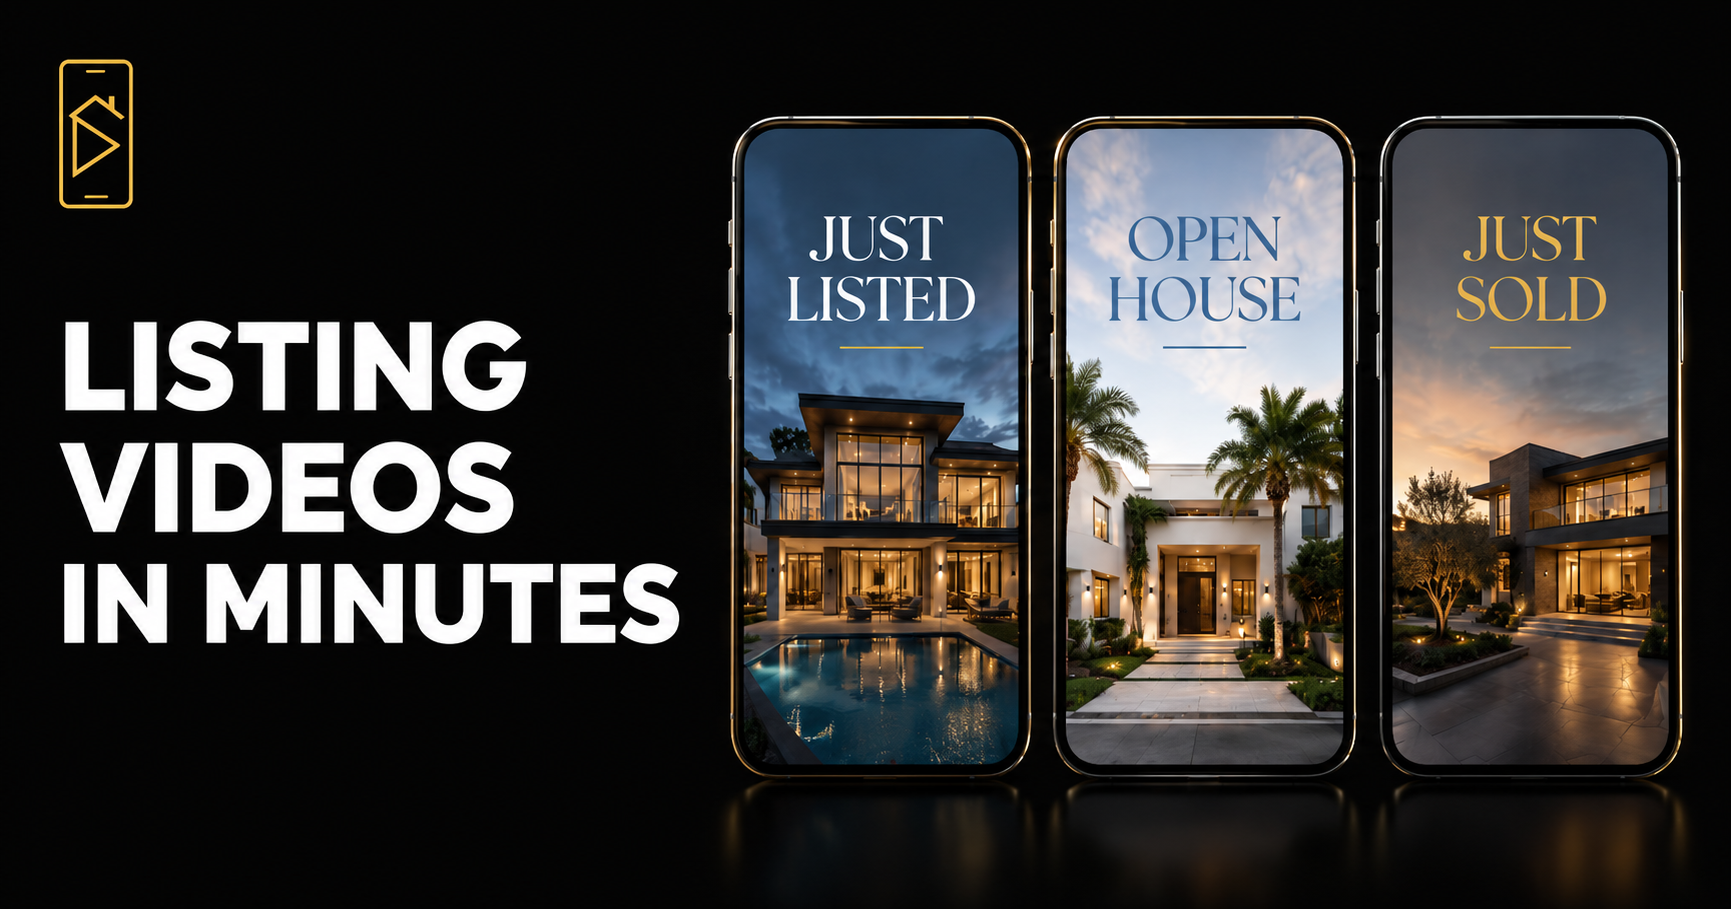
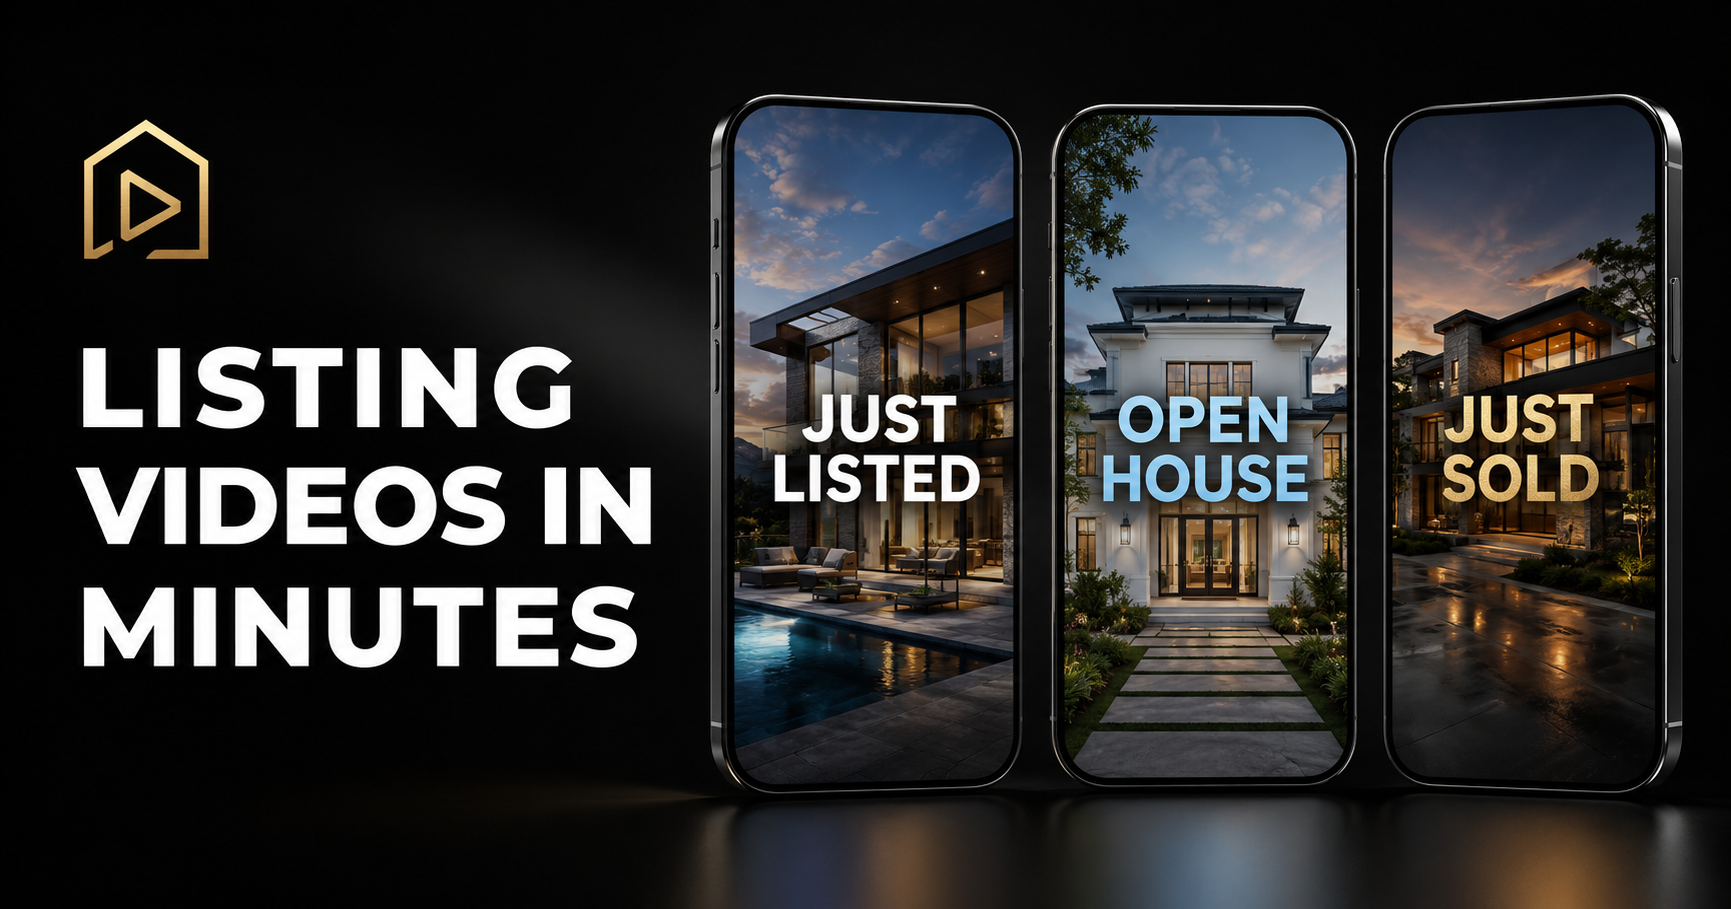
Fix photo upload (bad .env path), add auto-create assets dir, roadmap, new OG image
- .env: updated from nonexistent Genera Dropbox path to correct local paths
  (C:\Sites\RealEstate-Reels-Web\remotion and remotion\public)
- server.js: auto-create remotion/public/Projects/ on startup when using bundled
  path, so fresh clones work without manual directory creation
- remotion/public/Projects/: created — required for ASSETS_ROOT to validate
- ROADMAP.md: full project status doc — done, in-progress, pricing plan,
  file structure, account/profile system plan
- og-image.png: replaced with cleaner version (logo mark in corner)

diff --git a/server.js b/server.js
@@ -29,6 +29,16 @@ function validateConfig() {
   if (!REMOTION_PROJECT || !fs.existsSync(REMOTION_PROJECT)) return false;
   return true;
 }
+// Auto-create the public/Projects folder when using the bundled remotion path
+if (ASSETS_ROOT && ASSETS_ROOT === BUNDLED_ASSETS && !fs.existsSync(ASSETS_ROOT)) {
+  try {
+    fs.mkdirSync(path.join(ASSETS_ROOT, 'Projects'), { recursive: true });
+    console.log(`Created default assets folder: ${ASSETS_ROOT}`);
+  } catch (e) {
+    console.warn(`Could not auto-create assets folder: ${e.message}`);
+  }
+}
+
 let configValid = validateConfig();
 
 if (!configValid) {

diff --git a/ROADMAP.md b/ROADMAP.md
@@ -1,0 +1,183 @@
+# Real Estate Reels — Project Roadmap
+
+## What this app is
+
+A browser-based tool for real estate agents and brokerages to turn listing photos into
+branded short-form MP4 videos (Instagram Reels, TikTok, YouTube Shorts). Three templates:
+**Just Listed**, **Open House**, **Just Sold**. Renders locally via Remotion + FFmpeg.
+
+**Stack:** React + Vite + TypeScript + TailwindCSS (client) · Node.js + Express + Multer (server) · Remotion (video) · Vercel (frontend hosting)
+
+**Repo:** https://github.com/fuzmaster/real-estate-reels  
+**Live URL:** Vercel deployment (frontend only — rendering requires local server)
+
+---
+
+## ✅ Done
+
+### Phase 1 — Core App (complete)
+- [x] Converted Genera Reels music app → Real Estate Reels
+- [x] `ListingReel.tsx` Remotion composition — 5 scenes: hook → hero+address → stats card → photo montage → agent CTA
+- [x] Three composition IDs: `JustListed`, `OpenHouse`, `JustSold` (one component, `mode` prop)
+- [x] Ken Burns zoom on listing photos (`PhotoScene`)
+- [x] Accent colors per template: white (Just Listed), blue (Open House), gold (Just Sold)
+- [x] `CampaignForm.tsx` — full listing form: address, price, beds/baths/sqft, agent info, CTA, open house date/time
+- [x] Photo multi-upload grid
+- [x] Optional branding assets: headshot, brokerage logo, background music
+- [x] Agent profile save/load (localStorage, up to any number — future: gate at 1 free / 5 pro)
+- [x] Template selector (Just Listed / Open House / Just Sold checkboxes)
+- [x] Duration slider (10–60 seconds)
+- [x] Batch queue — add multiple listings, render all at once
+- [x] Render console with live SSE log stream and progress bar
+- [x] Output gallery with preview, download, bulk select/delete, sort
+- [x] Server: Express + Multer upload routes for photos/headshot/logo/music
+- [x] Server: `writeConfig()` generates `campaign.config.ts` before each render
+- [x] Server: output filenames like `JustListed - 123 Magnolia Lane.mp4`
+- [x] Project folder structure: `Projects/{name}/Photos/`, `Headshot/`, `Logo/`, `Music/`
+- [x] Settings panel with default templates, auto-switch-to-jobs pref
+- [x] Help tab with workflow guide, template descriptions, FAQ
+
+### Phase 1.5 — Deployment + SEO (complete)
+- [x] Vercel deployment (frontend static site)
+- [x] `vercel.json` — framework null, outputDirectory, SPA rewrites
+- [x] `VITE_API_URL` env var — client can point to local server from Vercel UI
+- [x] Offline banner — yellow warning when server health check fails (no confusing 503 error)
+- [x] Marketing landing page at `/` — hero, how-it-works, template previews, pricing, FAQ
+- [x] App moved to `/app` route
+- [x] `index.html` — full meta tags: title, description, og:*, twitter:card, JSON-LD schema
+- [x] `robots.txt` + `sitemap.xml`
+- [x] Brand assets: logo mark, logo wordmark, app icon (favicon), OG image, 3 template screenshots
+- [x] README rewritten (removed stale Genera content)
+
+### Bug Fixes
+- [x] `.env` fixed — was pointing to nonexistent Genera Reels Dropbox path
+- [x] `remotion/public/Projects/` created — server can now store listing assets
+- [x] Server auto-creates `remotion/public/` on first startup (bundled path)
+- [x] `vite-env.d.ts` added — fixes `import.meta.env` TypeScript error
+- [x] Vercel `tsc: command not found` — build now installs client deps first
+
+---
+
+## 🔲 In Progress / Next Up
+
+### Monetization Infrastructure (needed before any paywall)
+- [ ] **Auth** — add Clerk (fastest) or Supabase Auth. Google + email sign-in. Needed to identify users and track plan.
+- [ ] **Database** — Supabase or PlanetScale. Tables: `users`, `plans`, `render_usage`. Needed to gate features.
+- [ ] **Stripe billing** — Stripe Checkout + webhook to flip `plan` in DB on subscribe/cancel.
+- [ ] **Usage tracking** — count renders per user per month, store in DB.
+
+### Paywall Gates (build after auth+billing exist)
+- [ ] **Render cap** — 3 renders/month on Free, unlimited on Pro
+- [ ] **Watermark** — "Made with Real Estate Reels" badge on Free outputs
+- [ ] **Template gating** — Free: Just Listed only. Pro: all three.
+- [ ] **Profile limit** — Free: 1 saved agent profile. Pro: 5.
+- [ ] **Format gating** — Free: 9:16 only. Pro: 1:1 square + 16:9 horizontal.
+
+### New Features (Pro tier)
+- [ ] **Multiple aspect ratios** — register 1080×1080 and 1920×1080 Remotion compositions. Format selector in form.
+- [ ] **QR code on outro slide** — render QR from `mlsLink` field using `qrcode` npm package + Remotion `<Img>`
+- [ ] **Bulk ZIP download** — "Download all" button per campaign in Output Gallery
+- [ ] **Output filename deduplication** — add timestamp suffix to prevent silent overwrites
+- [ ] **Photo drag-to-reorder** — control hero shot + montage order with `@dnd-kit/core`
+- [ ] **Live Remotion Player preview** — embed `@remotion/player` in side panel, updates as form changes
+
+### Brokerage Tier Features
+- [ ] **Multi-agent seats** — multiple users under one brokerage account
+- [ ] **Shared brand kit** — logo, accent color, music shared across all agents in an office
+- [ ] **White-label** — remove all "Real Estate Reels" branding from output
+- [ ] **CSV import** — bulk listing data entry
+- [ ] **Bulk render** — render all agents' pending listings at once
+
+### SEO / Content
+- [ ] **Real domain** — buy domain, point to Vercel, update canonical/og URLs in `index.html`
+- [ ] **OG image** — current one is a PNG mockup, ideal is a proper 1200×630 designed graphic
+- [ ] **Google Search Console** — submit sitemap once domain is live
+- [ ] **Blog** — articles targeting: "real estate reel ideas", "how to make just listed videos", "Instagram reels for real estate agents 2026"
+
+### Infrastructure
+- [ ] **Full-stack deployment** — move to Railway or Render.com so rendering works from the web (not just local). Vercel can't run FFmpeg.
+- [ ] **Image compression** — template preview PNGs are ~1.8MB each. Run through `sharp` before shipping.
+- [ ] **`.env.example`** — update to reflect new Real Estate Reels paths (currently shows old Genera defaults)
+
+---
+
+## Pricing Plan
+
+| Tier | Price | Key limits |
+|------|-------|-----------|
+| **Free** | $0 | 3 renders/mo, Just Listed only, 9:16 only, 1 profile, watermark |
+| **Pro** | $29/agent/mo | Unlimited renders, all 3 templates, all formats, 5 profiles, no watermark, QR, ZIP download |
+| **Brokerage** | $99/mo | Everything Pro + multi-seat, shared brand kit, white-label, bulk render, CSV import |
+
+---
+
+## File Structure (key files)
+
+```
+RealEstate-Reels-Web/
+├── server.js                        # Express API server (uploads, render queue, SSE)
+├── .env                             # Local paths (gitignored) — ASSETS_ROOT, REMOTION_PROJECT
+├── vercel.json                      # Vercel build config (static frontend only)
+├── client/
+│   ├── index.html                   # Meta tags, OG, JSON-LD, favicon
+│   ├── public/                      # Static assets served at root
+│   │   ├── og-image.png
+│   │   ├── logo-mark.png
+│   │   ├── logo-wordmark.png
+│   │   ├── icon-512.png
+│   │   ├── template-just-listed.png
+│   │   ├── template-open-house.png
+│   │   ├── template-just-sold.png
+│   │   ├── robots.txt
+│   │   └── sitemap.xml
+│   └── src/
+│       ├── main.tsx                 # Path router: / = Landing, /app = App
+│       ├── App.tsx                  # Main app shell, server health ping, nav tabs
+│       ├── api.ts                   # All fetch calls, API_BASE from VITE_API_URL
+│       ├── types.ts                 # CampaignFormData, ReelTemplate, OutputCampaign
+│       ├── pages/
+│       │   └── Landing.tsx          # Marketing landing page
+│       └── components/
+│           ├── CampaignForm.tsx     # New listing form (all fields + uploads)
+│           ├── BatchQueue.tsx       # Queue view
+│           ├── RenderConsole.tsx    # SSE log stream + progress
+│           ├── OutputGallery.tsx    # Output preview/download/delete
+│           ├── Help.tsx
+│           └── Settings.tsx
+└── remotion/
+    ├── src/
+    │   ├── Root.tsx                 # Registers JustListed, OpenHouse, JustSold
+    │   ├── ListingReel.tsx          # Single component, mode prop drives all 3 templates
+    │   └── campaign.config.ts       # Auto-generated by server before each render
+    └── public/
+        └── Projects/                # Listing asset storage (photos, headshot, logo, music)
+```
+
+---
+
+## How local dev works
+
+```bash
+# Terminal 1
+node server.js        # API server at http://localhost:3000
+
+# Terminal 2
+cd client && npm run dev   # Vite dev server at http://localhost:5173
+                           # Proxies /api/* → localhost:3000 automatically
+```
+
+The `.env` file must exist with correct local paths. The `VITE_API_URL` env var is
+only needed in production (Vercel) to point the deployed UI at a running server.
+
+---
+
+## Account & Profile System (planned)
+
+Currently: agent profiles saved to localStorage (per-browser, per-device, no account needed).
+
+Planned:
+- Users sign in with Clerk (Google/email)
+- Profiles saved to database, accessible from any device
+- Plan tracked in DB — free vs pro vs brokerage
+- Stripe webhook flips plan on subscribe/cancel
+- All API routes check `req.user.plan` before gating features